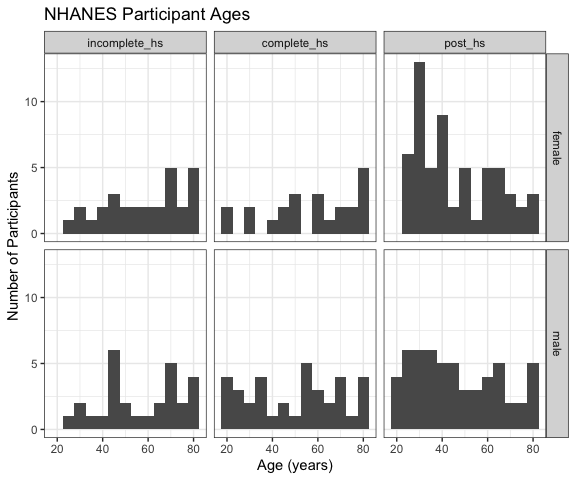
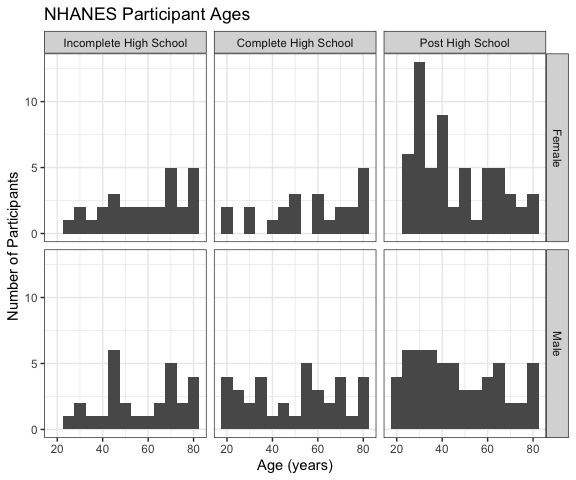
shift dataset loading to main code chunk, renamed problem 3 sex and education levels to be user friendly in tables/graphics

diff --git a/p8105_hw3_drl2168.md b/p8105_hw3_drl2168.md
@@ -1,7 +1,7 @@
 P8105: Homework 3
 ================
 Derek Lamb
-2023-10-11
+2023-10-12
 
 I will load all necessary packages here. I also am including the code
 that Dr. Goldsmith showed in class, to set figure color and size
@@ -258,13 +258,13 @@ df_subjects <- read_csv("data/nhanes_covar.csv", skip = 4) |>
   janitor::clean_names() |> 
   mutate(
     sex = case_match(sex,
-                     1 ~ "male",
-                     2 ~ "female"
+                     1 ~ "Male",
+                     2 ~ "Female"
                      ),
     education = case_match(education,
-                           1 ~ "incomplete_hs",
-                           2 ~ "complete_hs",
-                           3 ~ "post_hs"
+                           1 ~ "Incomplete High School",
+                           2 ~ "Complete High School",
+                           3 ~ "Post High School"
                            )) 
 
 # Import and tidy accelerometer info
@@ -287,7 +287,7 @@ df_nhanes <- left_join(df_subjects, df_accel, by = join_by(seqn)) |>
     names_prefix = "min"
   ) |> 
   mutate(min = as.numeric(min),
-        education = fct_relevel(education, c("incomplete_hs", "complete_hs", "post_hs"))
+        education = fct_relevel(education, c("Incomplete High School", "Complete High School", "Post High School"))
   ) |> 
   filter(age >= 21) |> 
   drop_na(education)
@@ -312,23 +312,15 @@ df_nhanes |>
     names_from = sex,
     values_from = n_subj
   ) |> 
-  mutate(
-    total = female + male,
-    education = case_match(
-      education,
-      "complete_hs" ~ "Complete High School",
-      "incomplete_hs" ~ "Incomplete High School",
-      "post_hs" ~ "Post High School"),
-    education = fct_relevel(education, c("Incomplete High School", "Complete High School", "Post High School")),
-  ) |> 
+  mutate(Total = Female + Male)|> 
   arrange(education) |> 
-  kable(col.names = c("Education", "Female", "Male", "Total"))
+  kable()
 ```
 
     ## `summarise()` has grouped output by 'sex'. You can override using the `.groups`
     ## argument.
 
-| Education              | Female | Male | Total |
+| education              | Female | Male | Total |
 |:-----------------------|-------:|-----:|------:|
 | Incomplete High School |     29 |   28 |    57 |
 | Complete High School   |     23 |   36 |    59 |
